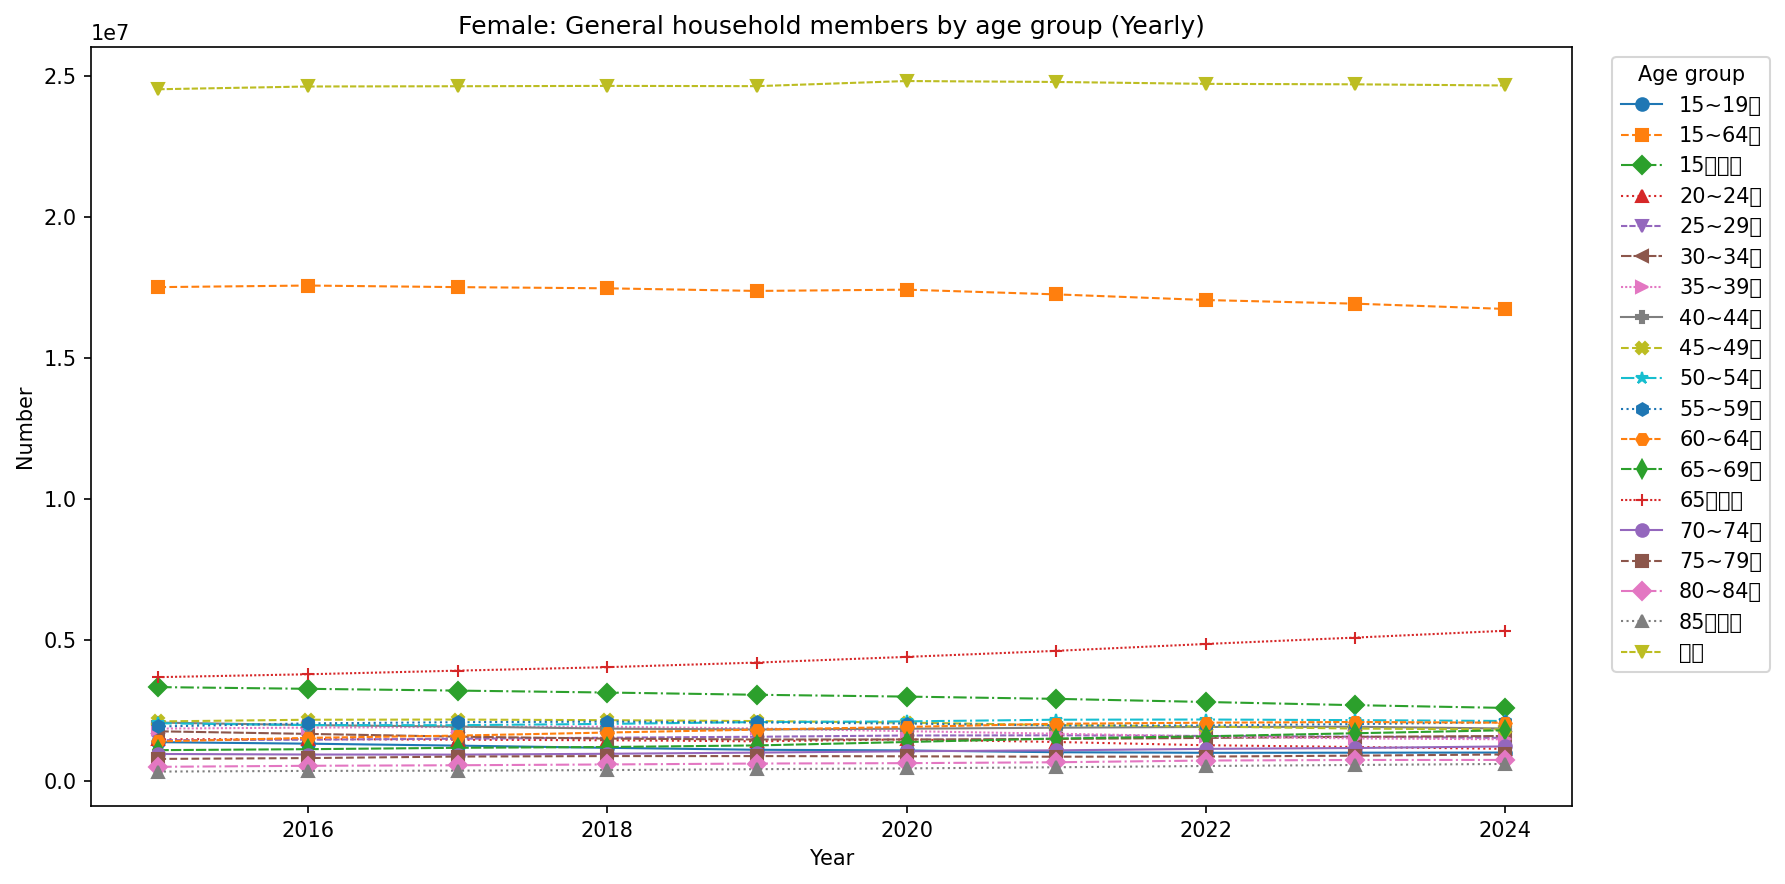
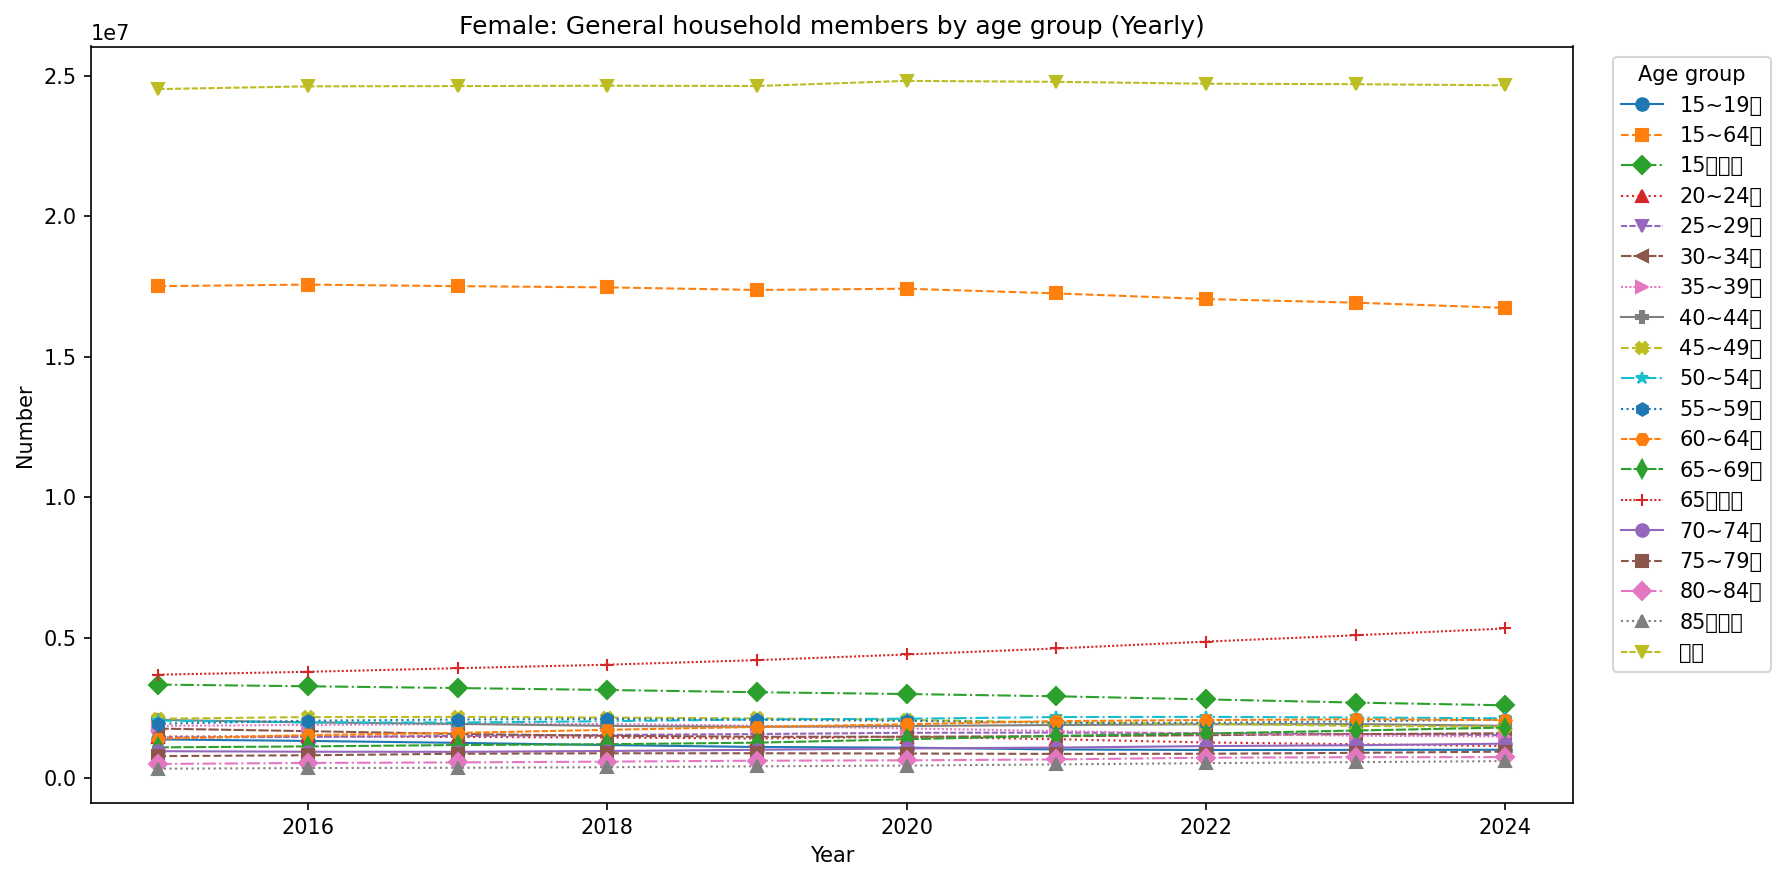
linked

diff --git a/evaluation/stack_no3/ex/linked_list.py b/evaluation/stack_no3/ex/linked_list.py
@@ -6,8 +6,54 @@ class Node:
 class LinkedList:
     def __init__(self):
         self.head = None
-        self.size = 0
-    def __sizeof__(self) -> int:
-        pass
+        self.cnt = 0
+
+    def __len__(self) -> int:
+        return self.cnt
+    def display(self):
+        if self.cnt == 0:
+            print("Empty")
+        else:
+            current = self.head
+            for _ in range(self.cnt):
+                print(current.data,end='->')
+                current = current.next
+            print()
+
+    def to_list(self):
+        current = self.head
+        list_list = []
+        for _ in range(self.cnt):
+            list.append(current.data)
+            current = current.next
+        return list_list
+
+
+    def insert(self, index, value):
+        if index < 0 or index > len(self):
+            raise IndexError("Index out of range")
+
+        new_node = Node(value)
+        self.cnt += 1
+
+        # 맨 앞 삽입
+        if index == 0:
+            new_node.next = self.head
+            self.head = new_node
+        else:
+            prev = self.head
+            for _ in range(index-1):
+                prev = prev.next
+            new_node.next = prev.next
+            prev.next = new_node
+        
+
+ll = LinkedList()
+ll.insert(0,1)
+ll.insert(0,2)
+ll.display()
+print(ll.to_list)
+
+
     
 

diff --git a/proj2/c4q2/problem1_simple.py b/proj2/c4q2/problem1_simple.py
@@ -1,7 +1,10 @@
 import os
 import pandas as pd
+import matplotlib
+matplotlib.use('Agg')  # 화면 없이 PNG 저장만
 import matplotlib.pyplot as plt
 plt.rcParams['font.family'] ='Malgun Gothic'
+os.chdir(os.path.dirname(__file__))
 # --- 1. 읽기 및 전처리 ---
 df = pd.read_csv("data.csv", dtype=str)
 cols_keep = ["행정구역별(시군구)", "성별", "연령별", "시점", "일반가구원"]

diff --git a/proj2/c4q2/problem1_amend.py b/proj2/c4q2/problem1_amend.py
@@ -1,5 +1,10 @@
+import os
 import pandas as pd
+import matplotlib
+matplotlib.use('Agg')  # 화면 없이 PNG 저장만
 import matplotlib.pyplot as plt
+
+os.chdir(os.path.dirname(__file__))
 
 # 파일 읽기 (다운로드한 CSV 파일을 같은 폴더에 두고 실행)
 df = pd.read_csv("data.csv", dtype=str)

diff --git a/evaluation/stack_no3/문제12ErrorMessage분석.md b/evaluation/stack_no3/문제12ErrorMessage분석.md
@@ -1434,3 +1434,222 @@ LinkedList형으로 변환한 버전을 **단계별로 개조**해줄 수도 있
 
 그럴래?
 
+좋아요! 😄
+
+그럼 지금까지 논의한 내용을 바탕으로 **LinkedList, CircularList, Stack 구현**을 통합한 안전한 예제 코드를 만들어 드릴게요.
+
+* Pylance 경고 없이 타입 힌트 포함
+* insert/delete edge case 처리
+* Stack push/pop/peek/empty 처리
+* CircularList get_next, search 처리
+
+---
+
+```python
+# -*- coding: utf-8 -*-
+
+# -----------------------------
+# Node 정의
+# -----------------------------
+class Node:
+    def __init__(self, value):
+        self.value = value
+        self.next = None
+
+# -----------------------------
+# LinkedList
+# -----------------------------
+class LinkedList:
+    def __init__(self):
+        self.head: Node | None = None
+        self.cnt = 0
+
+    def __len__(self) -> int:
+        return self.cnt
+
+    def insert(self, index: int, value):
+        if index < 0 or index > self.cnt:
+            raise IndexError("Index out of range")
+
+        new_node = Node(value)
+
+        if index == 0:
+            new_node.next = self.head
+            self.head = new_node
+        else:
+            current: Node | None = self.head
+            prev: Node | None = None
+            for _ in range(index):
+                prev = current
+                if current:
+                    current = current.next
+            new_node.next = current
+            if prev:
+                prev.next = new_node
+
+        self.cnt += 1
+
+    def delete(self, index: int):
+        if index < 0 or index >= self.cnt:
+            raise IndexError("Index out of range")
+
+        current: Node | None = self.head
+        prev: Node | None = None
+        for _ in range(index):
+            prev = current
+            if current:
+                current = current.next
+
+        if prev is None:
+            self.head = current.next if current else None
+        else:
+            prev.next = current.next if current else None
+
+        self.cnt -= 1
+        return current.value if current else None
+
+    def to_list(self):
+        result = []
+        current: Node | None = self.head
+        while current:
+            result.append(current.value)
+            current = current.next
+        return result
+
+# -----------------------------
+# CircularList
+# -----------------------------
+class CircularList:
+    def __init__(self):
+        self.last: Node | None = None
+        self.cnt = 0
+
+    def __len__(self) -> int:
+        return self.cnt
+
+    def insert(self, value):
+        new_node = Node(value)
+        if self.last is None:
+            new_node.next = new_node
+            self.last = new_node
+        else:
+            new_node.next = self.last.next
+            self.last.next = new_node
+            self.last = new_node
+        self.cnt += 1
+
+    def delete(self, value):
+        if self.last is None:
+            return False
+
+        prev = self.last
+        current = self.last.next
+        for _ in range(self.cnt):
+            if current.value == value:
+                if self.cnt == 1:
+                    self.last = None
+                else:
+                    prev.next = current.next
+                    if current == self.last:
+                        self.last = prev
+                self.cnt -= 1
+                return True
+            prev = current
+            current = current.next
+        return False
+
+    def get_next(self):
+        if not self.last:
+            return None
+        self.last = self.last.next
+        return self.last.value
+
+    def search(self, value):
+        if not self.last:
+            return None
+        current = self.last.next
+        for _ in range(self.cnt):
+            if current.value == value:
+                return current.value
+            current = current.next
+        return None
+
+# -----------------------------
+# Stack
+# -----------------------------
+class Stack:
+    def __init__(self):
+        self.capacity = 10
+        self.data: list = []
+
+    def push(self, value) -> bool:
+        if len(self.data) >= self.capacity:
+            print("Stack is full.")
+            return False
+        self.data.append(value)
+        return True
+
+    def pop(self):
+        if self.empty():
+            print("Stack is empty.")
+            return None
+        return self.data.pop()
+
+    def peek(self):
+        if self.empty():
+            print("Stack is empty.")
+            return None
+        return self.data[-1]
+
+    def empty(self):
+        return len(self.data) == 0
+
+# -----------------------------
+# 테스트용 main
+# -----------------------------
+if __name__ == "__main__":
+    print("=== Stack Test ===")
+    s = Stack()
+    print("Empty?", s.empty())
+    for i in range(12):
+        print(f"Push {i}: {s.push(i)}", s.data)
+    print("Peek:", s.peek())
+    while not s.empty():
+        print("Pop:", s.pop())
+    s.pop()
+
+    print("\n=== LinkedList Test ===")
+    ll = LinkedList()
+    ll.insert(0, "A")
+    ll.insert(1, "B")
+    ll.insert(1, "X")
+    print("List:", ll.to_list())
+    ll.delete(1)
+    print("After delete:", ll.to_list())
+
+    print("\n=== CircularList Test ===")
+    cl = CircularList()
+    cl.insert("A")
+    cl.insert("B")
+    cl.insert("C")
+    print("Get next:", cl.get_next())
+    print("Search B:", cl.search("B"))
+    cl.delete("B")
+    print("After delete B, get next:", cl.get_next())
+```
+
+---
+
+이 코드 특징:
+
+1. **prev/current 관리 + None 체크** → next attribute error 방지
+2. **for문/while문 모두 적용 가능 구조**
+3. **Stack, LinkedList, CircularList** 모두 시험 문제 기준 동작
+4. **Stack capacity 10** 초과시 메시지 출력, empty일 때 pop/peek → None 반환
+5. **Pylance 타입 힌트** 포함 (`Node | None`, `list`)
+
+---
+
+원하면 제가 이 구조를 **시험용 최소한 코드 + assert 기반 자동 체크** 버전으로도 만들어서 바로 테스트 가능하게 해줄 수 있어요.
+
+그거 만들어 드릴까요?
